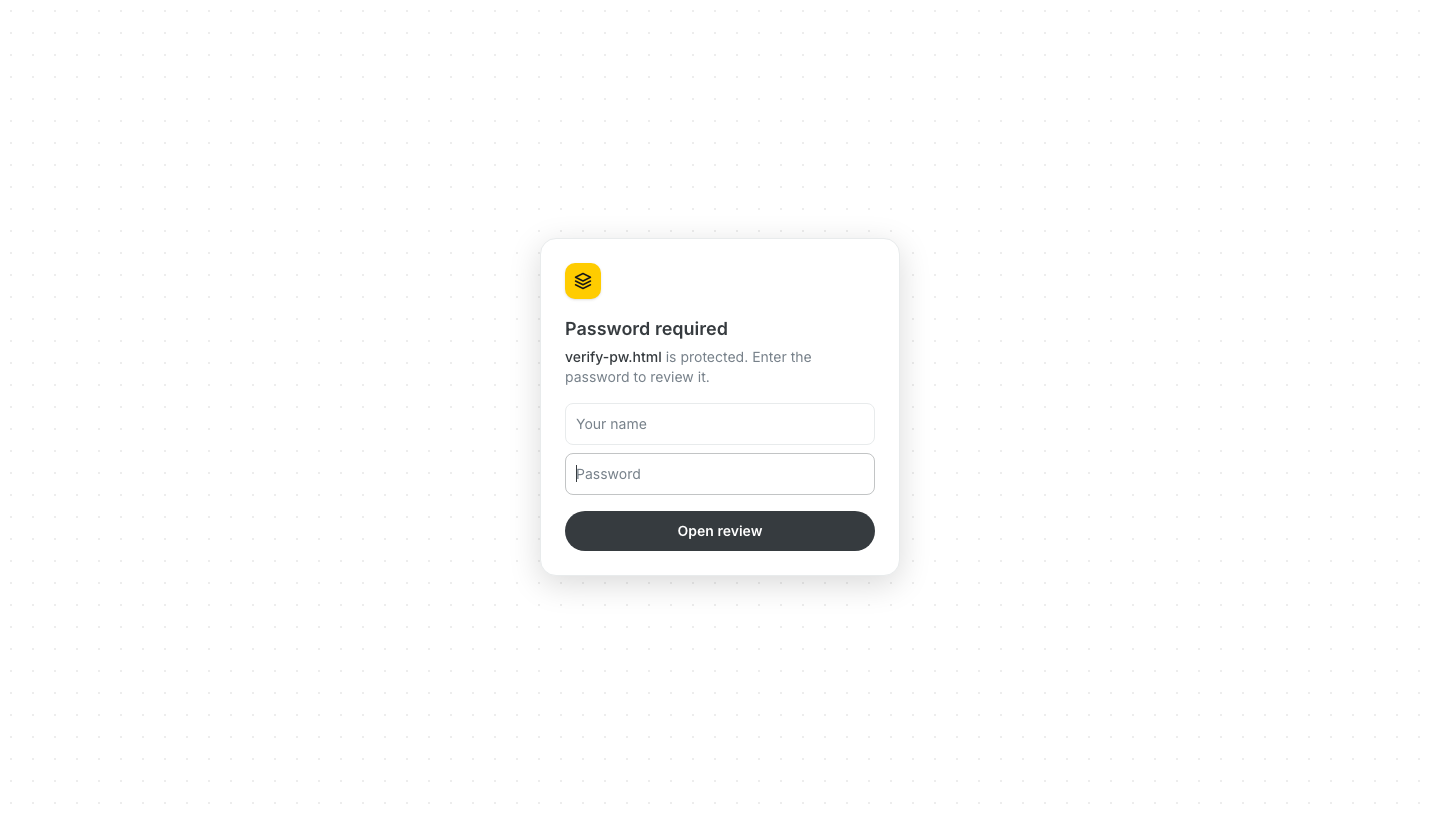
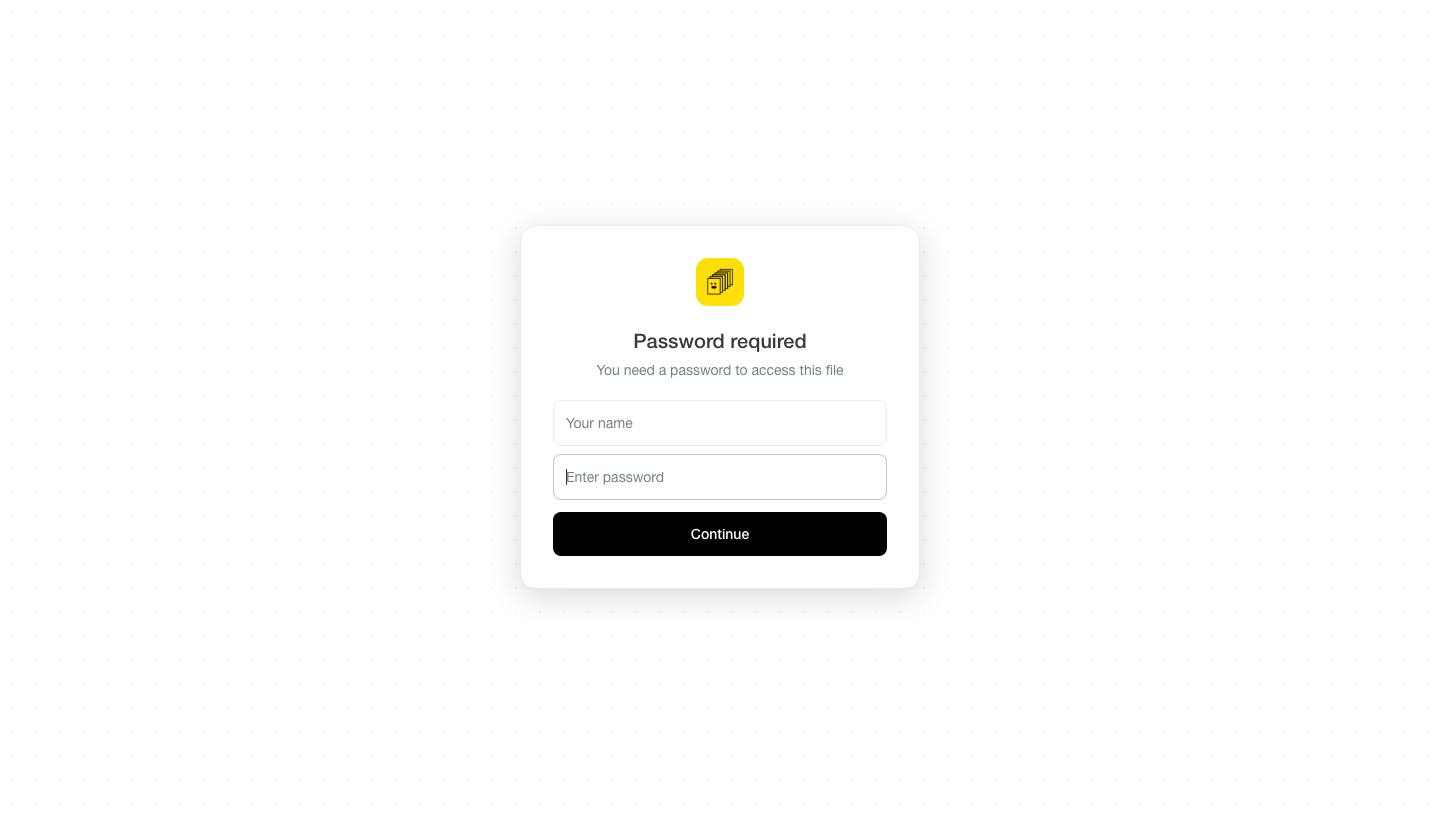
docs: refresh screenshots for the current UI + add a versions shot
Regenerate editor.png and password-gate.png from the current design (title
pill, redesigned share/comments, updated gate) and add versions.png showing
the left-margin version rail, per-version comments, and the in-canvas
"Import new version of this file" button. Reference the new image in the README.

Changed region(s): [[0.375, 0.5535, 0.625, 0.7073], [0.375, 0.3075, 0.5938, 0.5228], [0.375, 0.3075, 0.4375, 0.369]]

diff --git a/README.md b/README.md
@@ -125,6 +125,8 @@ Deleting a version renumbers the rest; deleting the last one tears down the
 whole share. Schema: a `versions` table, with `comments` referencing
 `version_id`; `get_share(…, version_no)`, `add_version`, `delete_version`.
 
+![Switching between versions, each its own review round](docs/versions.png)
+
 ### Sharing & security (password + owner token)
 
 - Tables `shares`, `versions`, `comments` have **RLS enabled with no policies**,